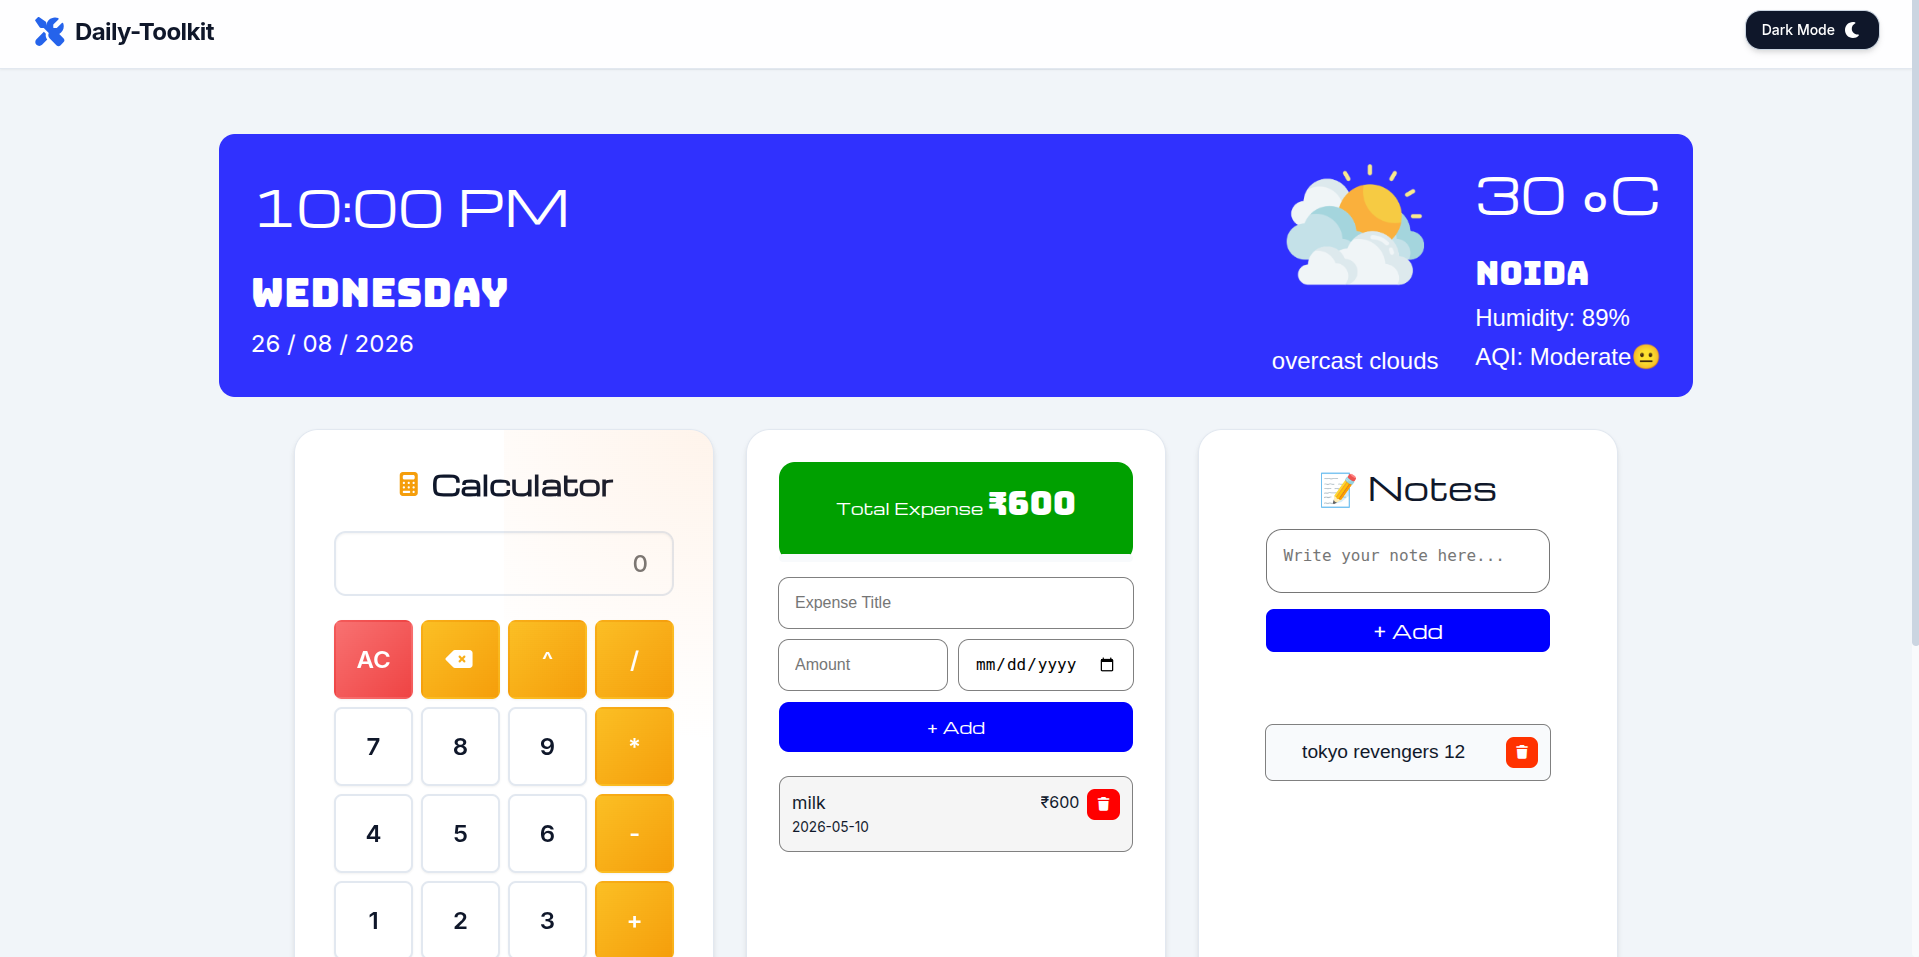
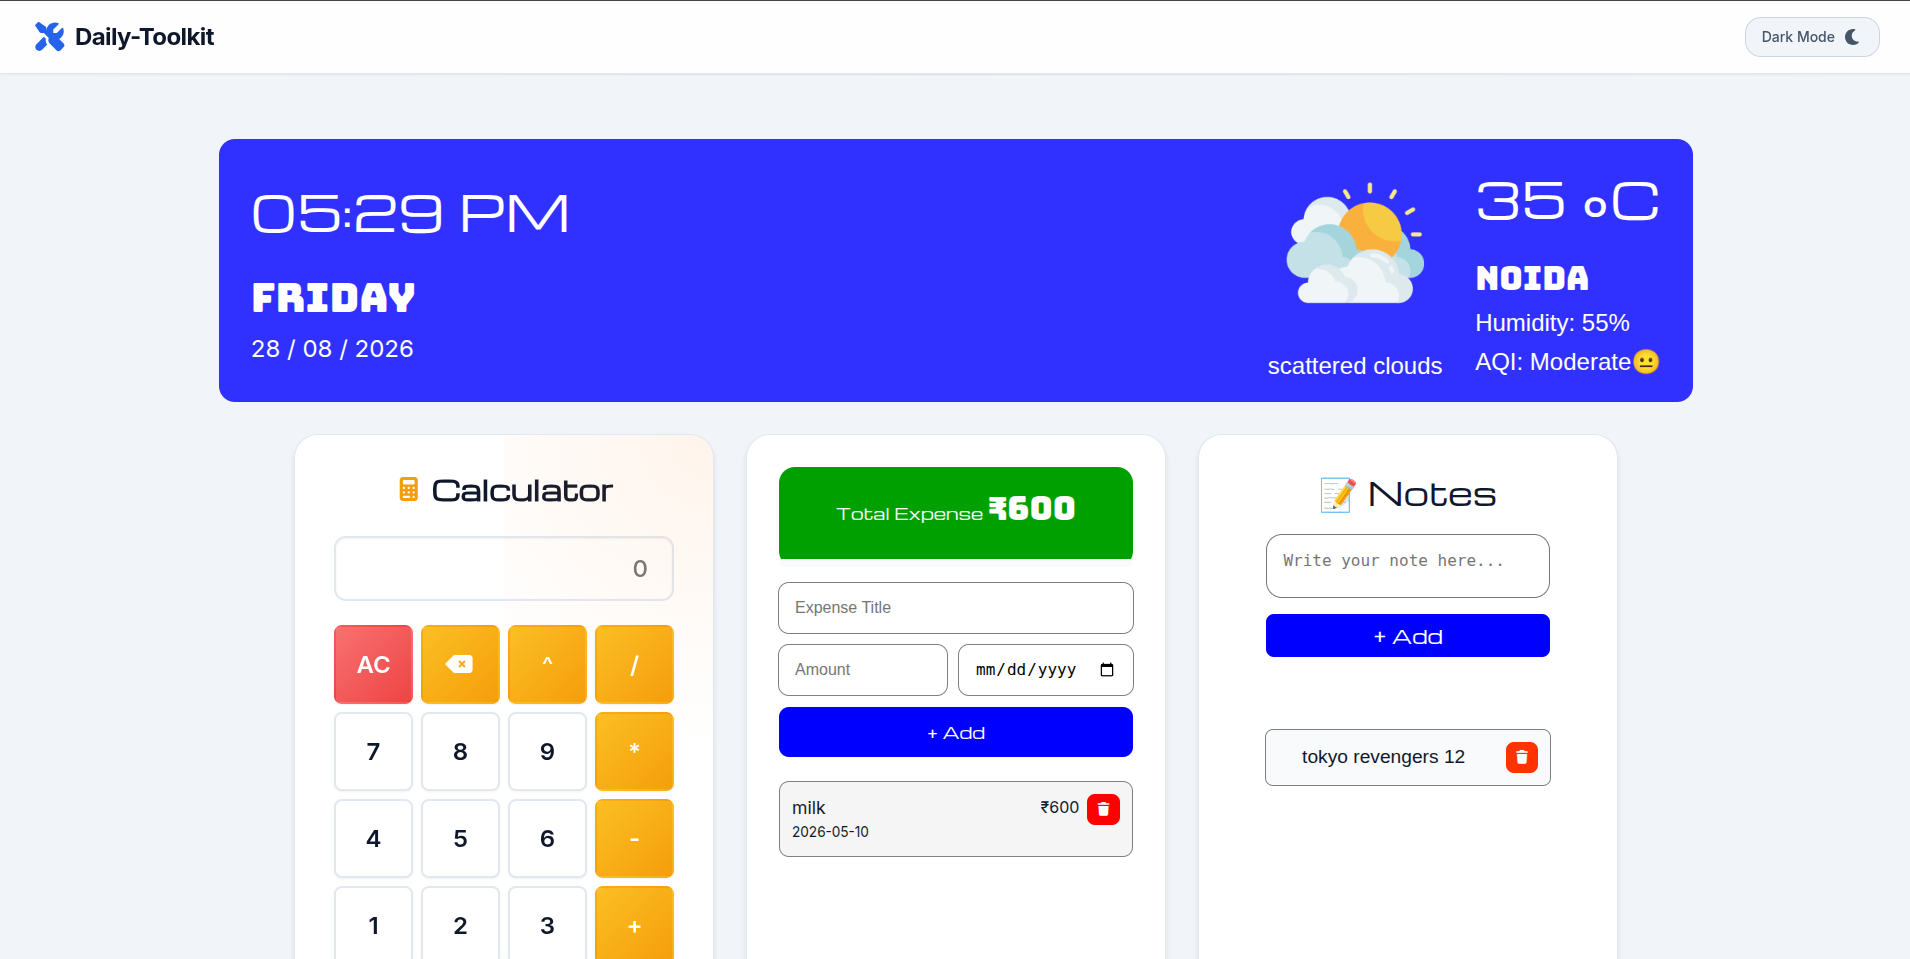
Add Image Store project to portfolio

diff --git a/src/pages/Projects.jsx b/src/pages/Projects.jsx
@@ -1,24 +1,37 @@
-import {
-  FaGithub,
-  FaExternalLinkAlt,
-  FaArrowRight,
-} from "react-icons/fa";
+import { FaGithub, FaExternalLinkAlt, FaArrowRight } from "react-icons/fa";
 import dailyToolkit from "../assets/projects/daily-toolkit.png";
-
+import imageStore from "../assets/projects/image-store.png";
 const Projects = () => {
   const projects = [
+    {
+      title: "Image Store",
+      description:
+        "A full-stack image sharing application where users can upload images with captions, view posts, and delete posts.",
+      image: imageStore,
+      status: "Completed",
+      technologies: [
+        "React",
+        "Tailwind CSS",
+        "Node.js",
+        "Express.js",
+        "MongoDB",
+        "ImageKit",
+      ],
+      highlights: [
+        "Image upload with preview",
+        "REST API integration",
+        "MERN stack deployment",
+      ],
+      liveLink: "https://image-store-two.vercel.app/",
+      githubLink: "https://github.com/Arpit-Kumar-198/image-store",
+    },
     {
       title: "Daily Toolkit",
       description:
         "A collection of useful everyday web applications including a weather dashboard, expense tracker, calculator and notes app.",
       image: dailyToolkit,
       status: "Completed",
-      technologies: [
-        "HTML",
-        "CSS",
-        "JavaScript",
-        "API",
-      ],
+      technologies: ["HTML", "CSS", "JavaScript", "API"],
       highlights: [
         "Weather dashboard",
         "Expense tracker",
@@ -35,7 +48,6 @@ const Projects = () => {
       className="scroll-mt-20 bg-[#101114] px-6 py-24 text-white lg:px-8"
     >
       <div className="mx-auto max-w-7xl">
-
         {/* Section Heading */}
         <div className="mb-16 text-center">
           <p className="mb-3 text-sm font-semibold uppercase tracking-[0.3em] text-[#F5B82E]">
@@ -56,16 +68,13 @@ const Projects = () => {
 
         {/* Projects Grid */}
         <div className="grid gap-7 md:grid-cols-2 lg:grid-cols-3">
-
           {projects.map((project, index) => (
             <div
               key={index}
               className="group flex flex-col overflow-hidden rounded-2xl border border-white/5 bg-[#18191d] transition-all duration-300 hover:-translate-y-2 hover:border-[#F5B82E]/40"
             >
-
               {/* Project Image */}
               <div className="relative h-52 overflow-hidden bg-[#101114]">
-
                 <img
                   src={project.image}
                   alt={project.title}
@@ -80,7 +89,6 @@ const Projects = () => {
 
               {/* Content */}
               <div className="flex flex-1 flex-col p-6">
-
                 <h3 className="text-2xl font-bold transition-colors duration-300 group-hover:text-[#F5B82E]">
                   {project.title}
                 </h3>
@@ -116,7 +124,6 @@ const Projects = () => {
 
                 {/* Buttons */}
                 <div className="mt-auto flex gap-3 pt-7">
-
                   <a
                     href={project.liveLink}
                     target="_blank"
@@ -136,13 +143,10 @@ const Projects = () => {
                     <FaGithub className="text-base" />
                     GitHub
                   </a>
-
                 </div>
-
               </div>
             </div>
           ))}
-
         </div>
 
         {/* Bottom CTA */}
@@ -151,7 +155,6 @@ const Projects = () => {
             More projects and experiments are available on my GitHub.
           </p>
         </div>
-
       </div>
     </section>
   );
